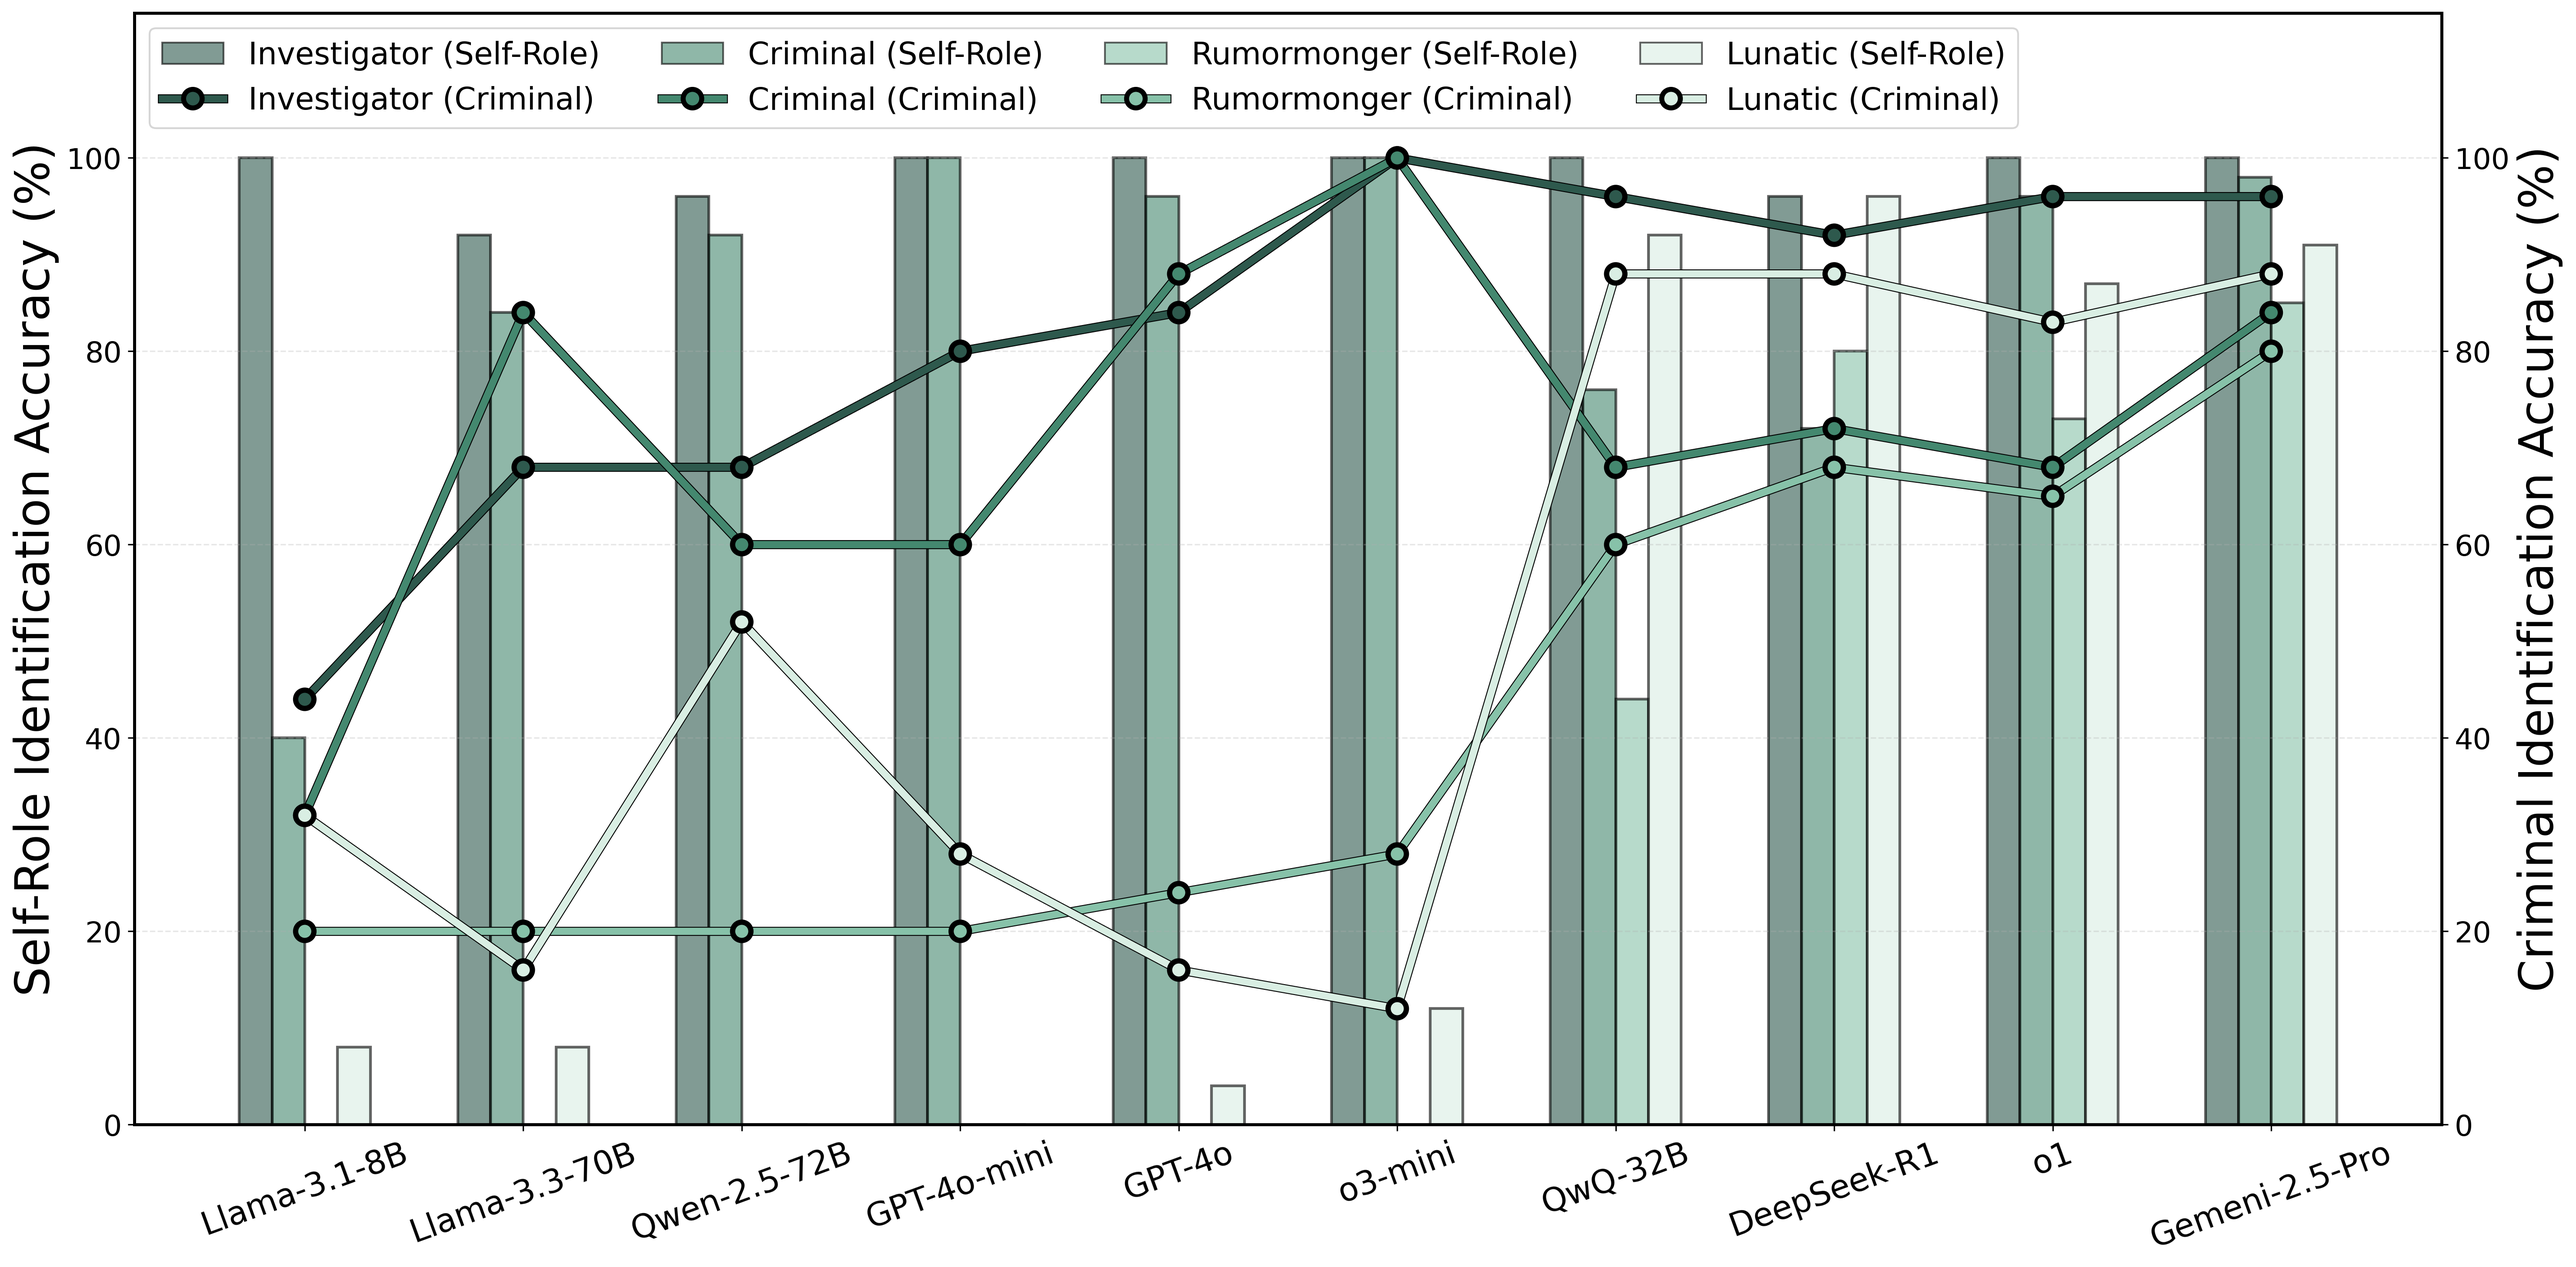
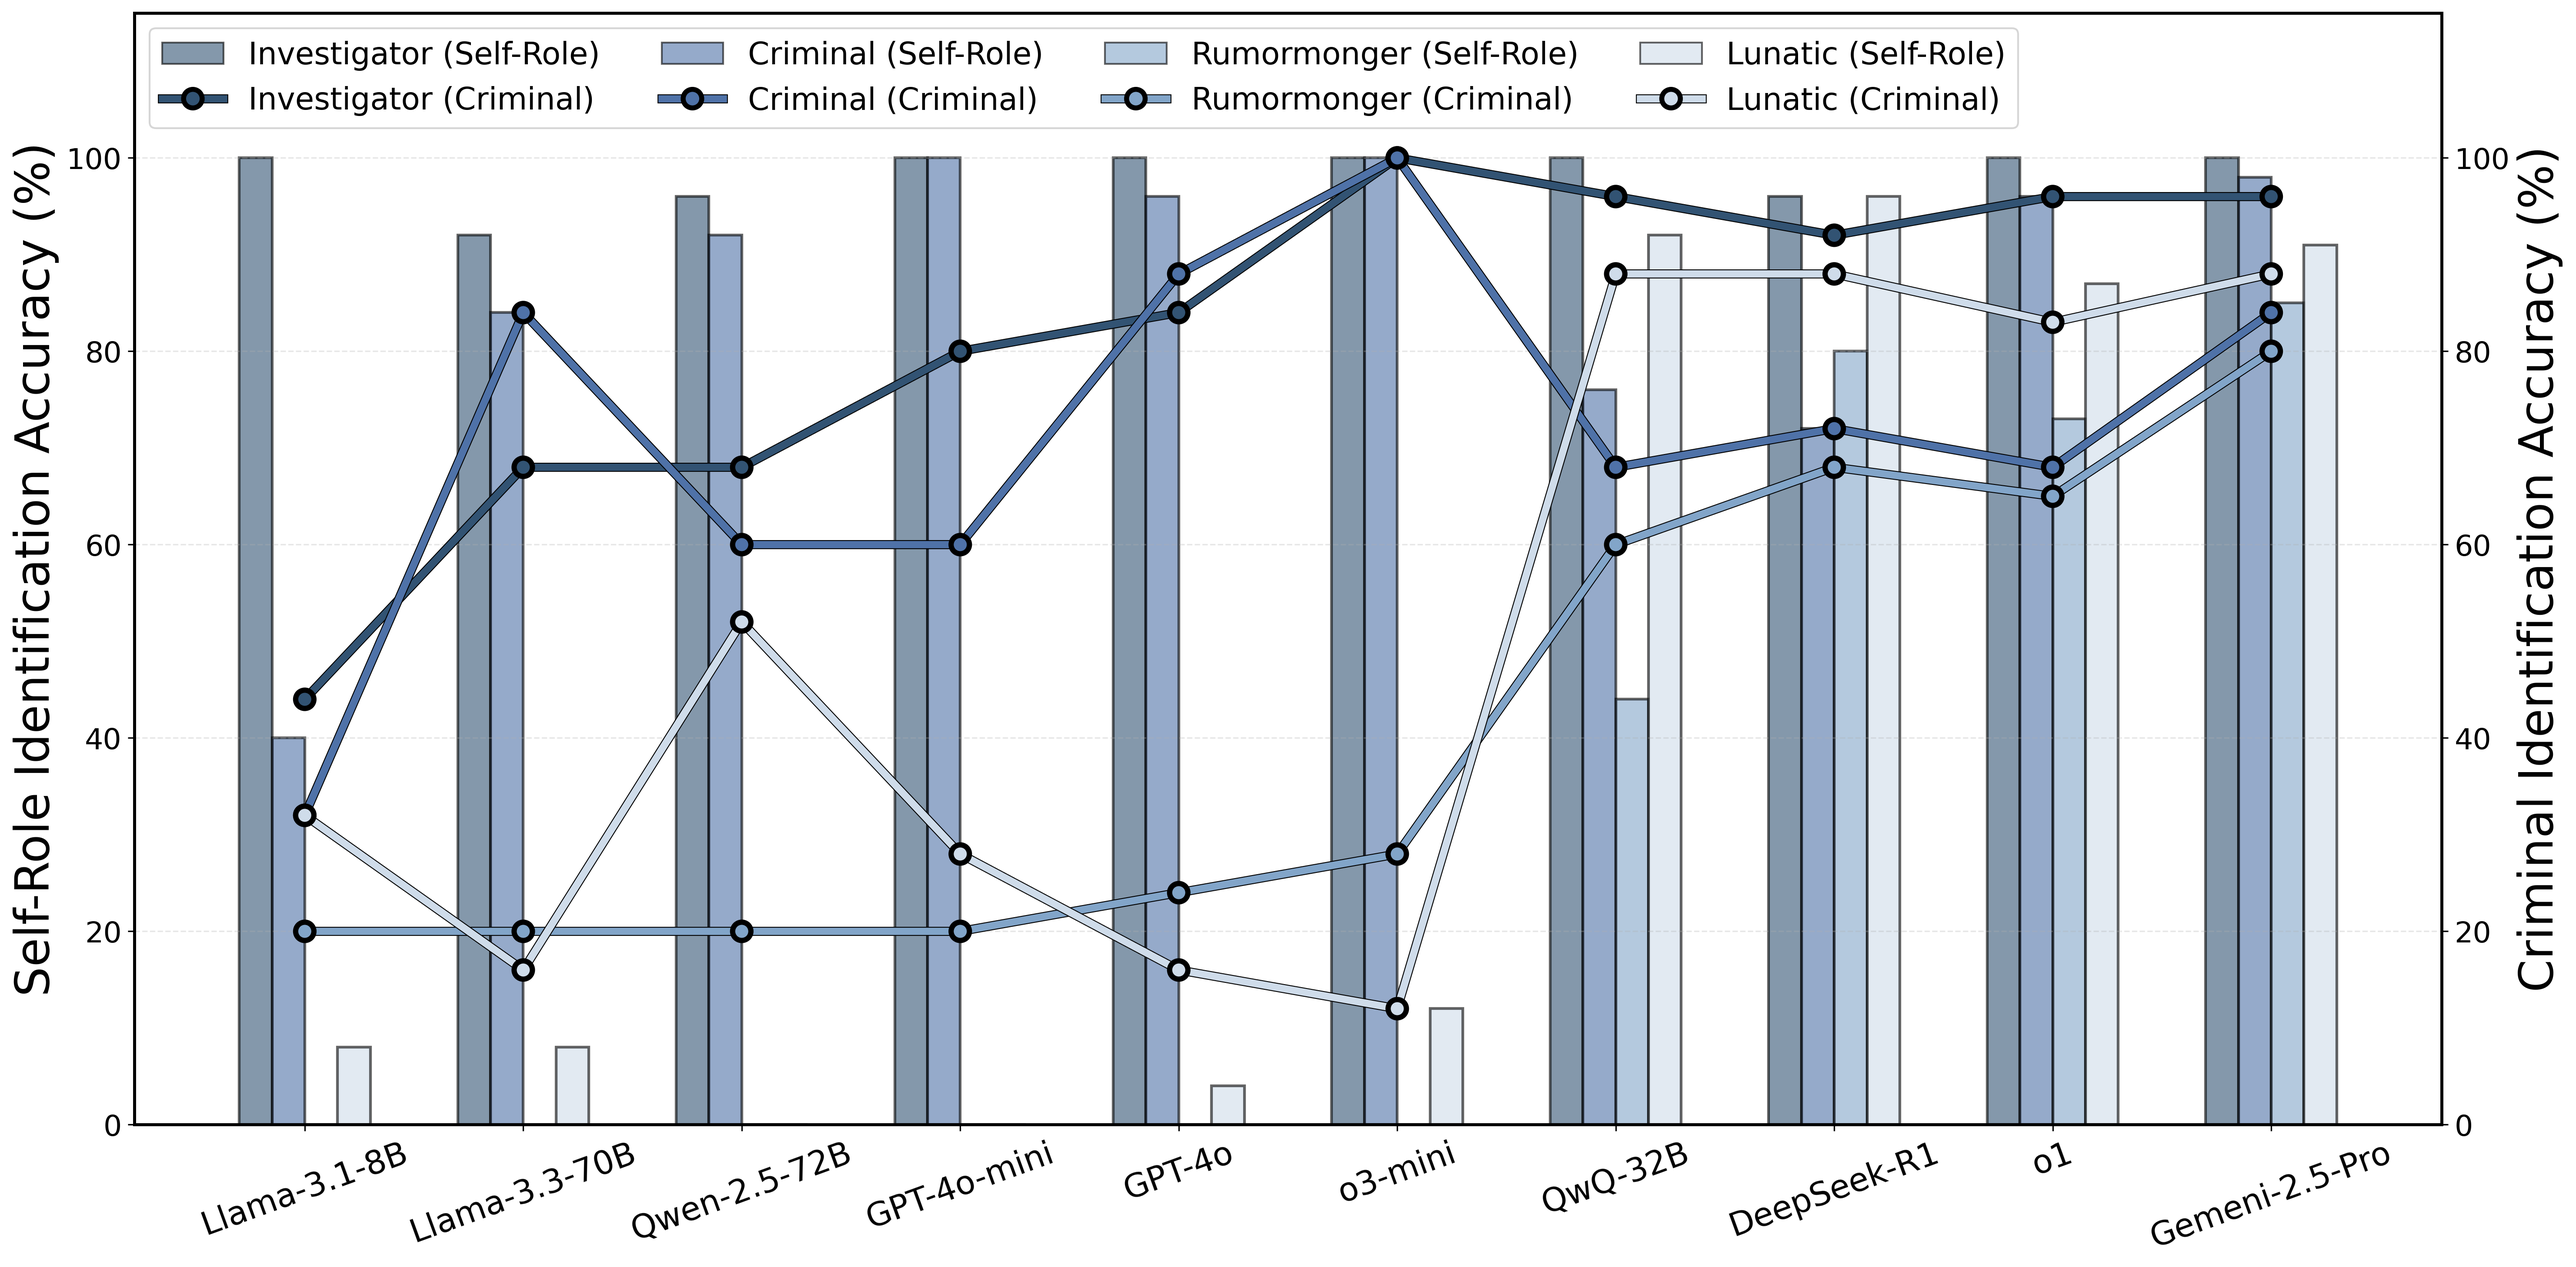
update

diff --git a/role_accuracy.py b/role_accuracy.py
@@ -13,10 +13,10 @@ plt.rcParams['axes.linewidth'] = 1.6
 # 初始化角色及其颜色，使用新的配色方案
 roles = ['Investigator', 'Criminal', 'Rumormonger', 'Lunatic']
 role_colors = {
-    'Investigator': '#2E594D',
-    'Criminal': '#44886F',
-    'Rumormonger': '#87C2A9',
-    'Lunatic': '#D9EEE3'
+    'Investigator': '#325373',
+    'Criminal': '#4F72A8',
+    'Rumormonger': '#82A5C9',
+    'Lunatic': '#CFDCEA'
 }
 
 # 定义模型展示名称 —— 顺序很重要

diff --git a/task_accuracy.py b/task_accuracy.py
@@ -161,7 +161,8 @@ ax_bar.set_xticklabels(model_display_list, rotation=20, ha='center', fontsize=18
 
 # 设置y轴范围
 ax_bar.set_ylim(0, 115)
-ax_line.set_ylim(0, 115)
+ax_line.set_ylim(25, 115) # 调整右侧 Y 轴的上限，增加顶部空间
+ax_line.set_yticks(np.arange(30, 101, 10)) # 设置右侧 Y 轴刻度从 30 到 100，步长为 10
 
 # 添加网格线
 ax_bar.grid(axis='y', linestyle='--', alpha=0.3)

diff --git a/deep_reason.py b/deep_reason.py
@@ -143,7 +143,7 @@ ax1.legend(lines1 + lines2, labels1 + labels2, loc='upper right', fontsize=22, f
 # 添加网格线以便更好地阅读数据
 ax1.grid(True, linestyle='--', alpha=0.3)
 
-plt.tight_layout(pad=2.0)  # 增加额外的填充以确保标签不被裁剪
+plt.tight_layout(pad=1.0)  # 减小 pad 值以使布局更紧凑
 plt.savefig('deep_reason.png', dpi=300, bbox_inches='tight')
 plt.close()
 
